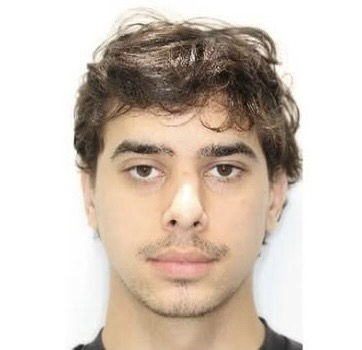
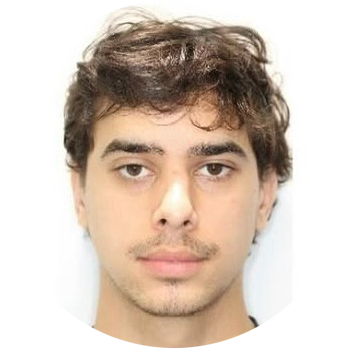
reverted css changes

diff --git a/style.css b/style.css
@@ -1,5 +1,7 @@
 /* GENERAL STYLING */
+
 @import url('https://fonts.googleapis.com/css2?family=Poppins:wght@300;400;500;600&display=swap');
+
 
 * {
     margin: 0;
@@ -25,7 +27,9 @@ a, .btn {
 }
 
 /* DESKTOP NAV */
-nav, .nav-links {
+
+nav, 
+.nav-links {
     display: flex;
 }
 
@@ -56,12 +60,12 @@ a:hover {
 .logo {
     font-size: 2rem;
 }
-
 .logo:hover {
     cursor: default;
 }
 
 /* HAMBURGER MENU */
+
 #hamburger-nav {
     display: none;
 }
@@ -128,7 +132,20 @@ a:hover {
     transform: rotate(-45deg) translate(10px, -5px);
 }
 
+.hamburger-icon span:first-child {
+    transform: none;
+}
+
+.hamburger-icon span:first-child {
+    opacity: 1;
+}
+
+.hamburger-icon span:first-child {
+    transform: none;
+}
+
 /* SECTIONS */
+
 section {
     padding-top: 4vh;
     height: 96vh;
@@ -143,6 +160,7 @@ section {
 }
 
 /* PROFILE SECTION */
+
 #profile {
     display: flex;
     justify-content: center;
@@ -151,14 +169,11 @@ section {
     scroll-margin-top: 17vh;
 }
 
-/* Circular profile picture */
-#profile .section__pic-container {
+.section__pic-container {
     display: flex;
     height: 500px;
     width: 500px;
     margin: auto 0;
-    border-radius: 50%;
-    overflow: hidden;
 }
 
 .section__text {
@@ -172,6 +187,9 @@ section {
 
 .section__text__p1 {
     text-align: center;
+}
+
+.section__text__p1 {
     font-size: 1.75rem;
     margin-bottom: center;
 }
@@ -189,12 +207,14 @@ section {
 }
 
 /* ICONS */
+
 .icon {
     cursor: pointer;
     height: 2rem;
 }
 
 /* BUTTONS */
+
 .btn-container {
     display: flex;
     justify-content: center;
@@ -234,22 +254,14 @@ section {
     border: rgb(255, 255, 255) 0.1rem solid;
 }
 
+.btn-container {
+    gap: 1rem;
+}
+
 /* ABOUT SECTION */
+
 #about {
     position: relative;
-}
-
-/* Rectangular about picture */
-#about .section__pic-container {
-    border-radius: 2rem;
-    overflow: hidden;
-}
-
-.about-pic {
-    border-radius: 2rem;
-    width: 100%;
-    height: 100%;
-    object-fit: cover;
 }
 
 .about-containers {
@@ -267,6 +279,10 @@ section {
     display: flex;
 }
 
+.about-pic {
+    border-radius: 2rem;
+}
+
 .details-container {
     padding: 0.8rem;
     flex: 1;
@@ -278,11 +294,20 @@ section {
 }
 
 .section-container {
+    display: flex;
     gap: 4rem;
     height: 80%;
 }
 
+.section__pic-container {
+    display: flex;
+    height: 400px;
+    width: 400px;
+    margin: auto 0;
+}
+
 /* EXPERIENCE SECTION */
+
 #experience {
     position: relative;
 }
@@ -296,7 +321,7 @@ section {
 
 .experience-details-container {
     display: flex;
-    justify-content: center;
+    justify-content: center; 
     flex-direction: column;
 }
 
@@ -321,6 +346,7 @@ article .icon {
 }
 
 /* PROJECTS SECTION */
+
 #projects {
     position: relative;
 }
@@ -347,6 +373,7 @@ article .icon {
 }
 
 /* CONTACT SECTION */
+
 #contact {
     display: flex;
     justify-content: center;
@@ -386,6 +413,7 @@ article .icon {
 }
 
 /* FOOTER SECTION */
+
 footer {
     height: 26vh;
     margin: 0 1rem;
